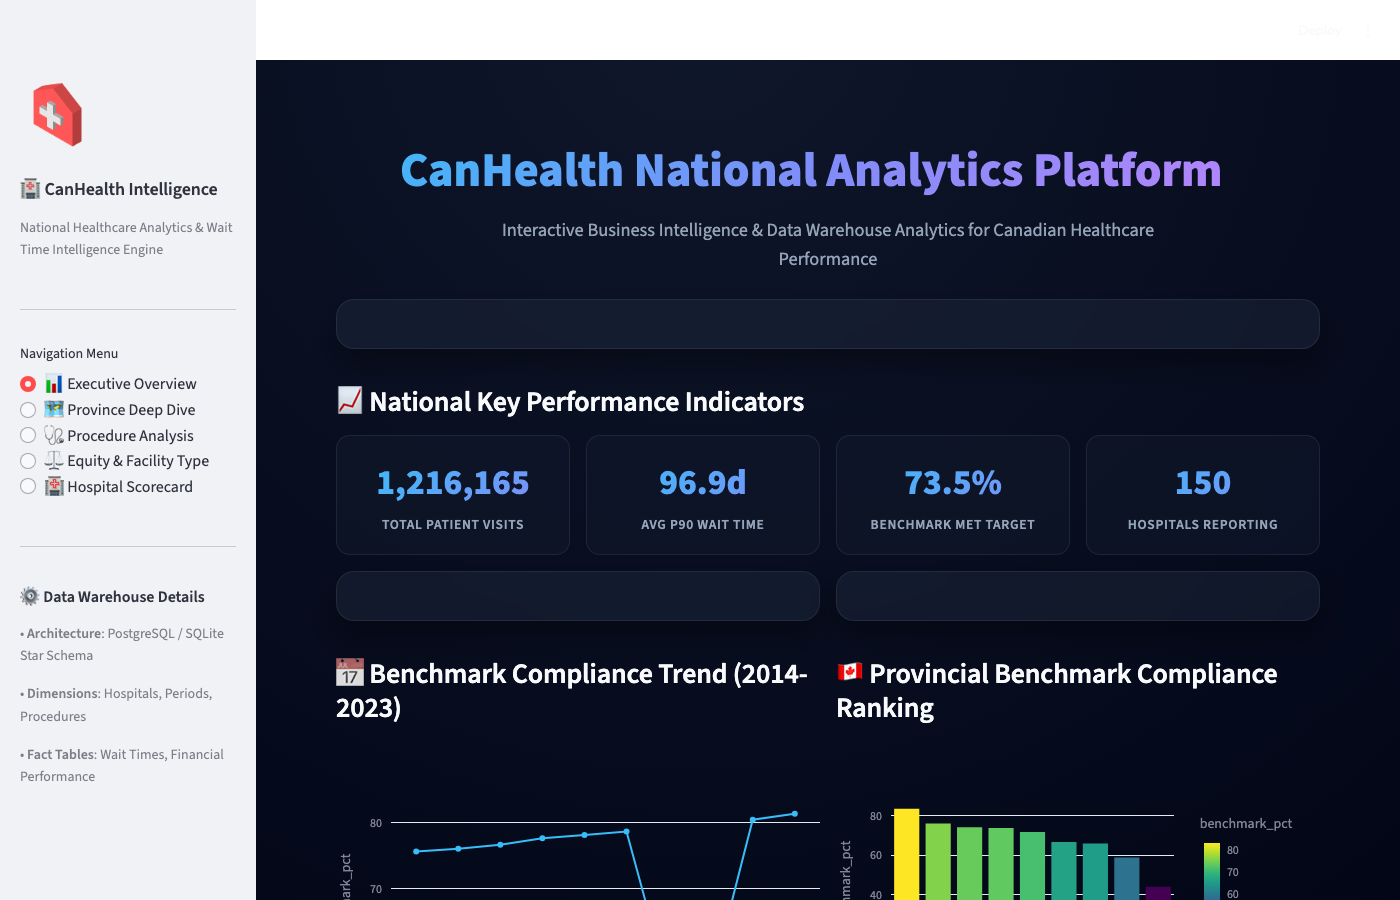
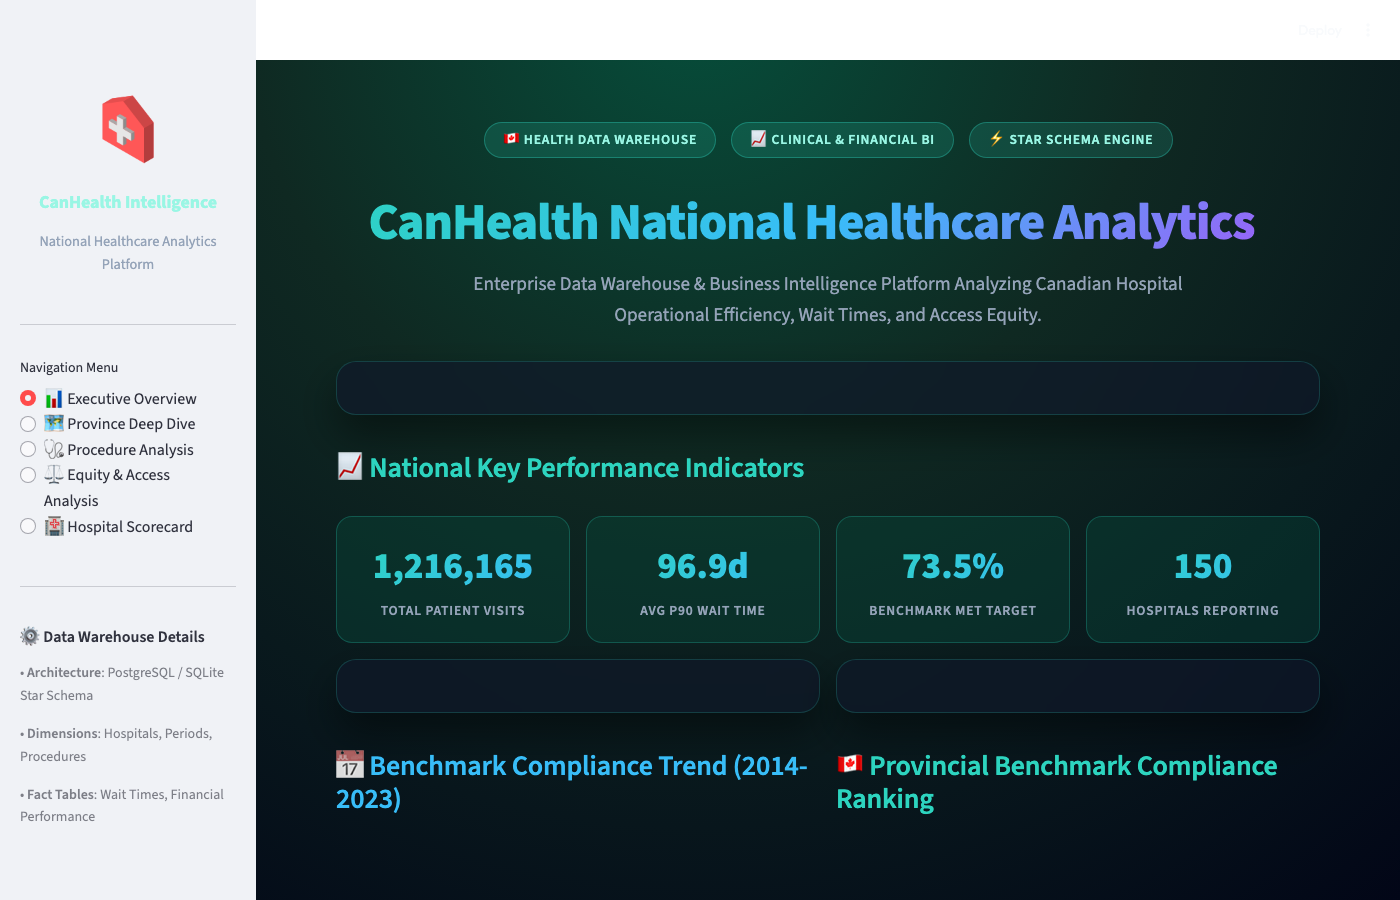
style: update CanHealth BI dashboard to distinct Emerald/Teal theme

diff --git a/dashboard/streamlit_dashboard.py b/dashboard/streamlit_dashboard.py
@@ -8,13 +8,13 @@ import plotly.graph_objects as go
 
 # --- PAGE CONFIGURATION ---
 st.set_page_config(
-    page_title="CanHealth Analytics - Healthcare Intelligence Portal",
+    page_title="CanHealth Intelligence - Healthcare Analytics",
     page_icon="🏥",
     layout="wide",
     initial_sidebar_state="expanded"
 )
 
-# --- CUSTOM CSS STYLING ---
+# --- DISTINCT EMERALD & TEAL HEALTHCARE THEME (CSS) ---
 st.markdown("""
 <style>
     @import url('https://fonts.googleapis.com/css2?family=Outfit:wght@300;400;500;600;700;800&family=Inter:wght@300;400;500;600;700&display=swap');
@@ -23,34 +23,43 @@ st.markdown("""
         font-family: 'Outfit', 'Inter', sans-serif;
     }
 
+    /* Deep Emerald & Cyan Oceanic Radial Background */
     .stApp {
-        background: radial-gradient(circle at 50% 0%, #0f172a 0%, #020617 100%);
+        background: radial-gradient(circle at 50% 0%, #064e3b 0%, #0f2922 40%, #020617 100%);
         color: #f8fafc;
     }
 
+    /* Glassmorphism Cards with Emerald Border Glow */
     .glass-card {
-        background: rgba(30, 41, 59, 0.45);
-        backdrop-filter: blur(16px);
-        -webkit-backdrop-filter: blur(16px);
-        border: 1px solid rgba(255, 255, 255, 0.08);
-        border-radius: 18px;
-        padding: 24px;
+        background: rgba(15, 23, 42, 0.65);
+        backdrop-filter: blur(20px);
+        -webkit-backdrop-filter: blur(20px);
+        border: 1px solid rgba(45, 212, 191, 0.2);
+        border-radius: 20px;
+        padding: 26px;
         margin-bottom: 24px;
-        box-shadow: 0 15px 35px rgba(0, 0, 0, 0.4);
+        box-shadow: 0 20px 40px rgba(0, 0, 0, 0.45);
+        transition: transform 0.3s ease, border-color 0.3s ease, box-shadow 0.3s ease;
     }
 
+    .glass-card:hover {
+        border-color: rgba(45, 212, 191, 0.5);
+        box-shadow: 0 25px 50px rgba(45, 212, 191, 0.15);
+    }
+
+    /* Metrics Container */
     .metric-container {
-        background: rgba(15, 23, 42, 0.6);
-        border: 1px solid rgba(255, 255, 255, 0.08);
-        border-radius: 14px;
-        padding: 18px;
+        background: rgba(6, 78, 59, 0.35);
+        border: 1px solid rgba(45, 212, 191, 0.25);
+        border-radius: 16px;
+        padding: 20px;
         text-align: center;
     }
 
     .metric-val {
-        font-size: 2.2rem;
+        font-size: 2.3rem;
         font-weight: 800;
-        background: linear-gradient(135deg, #38bdf8 0%, #818cf8 100%);
+        background: linear-gradient(135deg, #2dd4bf 0%, #38bdf8 100%);
         -webkit-background-clip: text;
         -webkit-text-fill-color: transparent;
     }
@@ -60,8 +69,23 @@ st.markdown("""
         font-size: 0.85rem;
         font-weight: 600;
         text-transform: uppercase;
-        letter-spacing: 0.05em;
+        letter-spacing: 0.06em;
         margin-top: 4px;
+    }
+
+    /* Pill Badges */
+    .badge-tag {
+        display: inline-block;
+        background: rgba(45, 212, 191, 0.15);
+        border: 1px solid rgba(45, 212, 191, 0.35);
+        color: #99f6e4;
+        padding: 6px 18px;
+        border-radius: 9999px;
+        font-size: 0.85rem;
+        font-weight: 600;
+        margin: 0 6px 14px 6px;
+        letter-spacing: 0.06em;
+        text-transform: uppercase;
     }
 </style>
 """, unsafe_allow_html=True)
@@ -76,16 +100,15 @@ def run_query(query):
     conn.close()
     return df
 
-# Initialize database if missing
 if not os.path.exists(DB_PATH):
     import setup_sqlite
     setup_sqlite.main()
 
 # --- SIDEBAR ---
 with st.sidebar:
-    st.image("https://img.icons8.com/isometric/100/hospital.png", width=75)
-    st.markdown("### 🏥 CanHealth Intelligence")
-    st.caption("National Healthcare Analytics & Wait Time Intelligence Engine")
+    st.markdown('<div style="text-align: center; padding: 12px 0;"><img src="https://img.icons8.com/isometric/120/hospital.png" width="80"></div>', unsafe_allow_html=True)
+    st.markdown('<h3 style="text-align: center; color: #99f6e4; font-weight: 700;">CanHealth Intelligence</h3>', unsafe_allow_html=True)
+    st.markdown('<p style="text-align: center; color: #94a3b8; font-size: 0.9rem;">National Healthcare Analytics Platform</p>', unsafe_allow_html=True)
     
     st.markdown("---")
     page = st.radio(
@@ -94,7 +117,7 @@ with st.sidebar:
             "📊 Executive Overview",
             "🗺 Province Deep Dive",
             "🩺 Procedure Analysis",
-            "⚖ Equity & Facility Type",
+            "⚖ Equity & Access Analysis",
             "🏥 Hospital Scorecard"
         ]
     )
@@ -107,12 +130,15 @@ with st.sidebar:
 
 # --- HEADER ---
 st.markdown("""
-<div style="text-align: center; padding: 10px 0 25px 0;">
-    <h1 style="background: linear-gradient(135deg, #38bdf8 0%, #818cf8 50%, #c084fc 100%); -webkit-background-clip: text; -webkit-text-fill-color: transparent; font-size: 3rem; font-weight: 800;">
-        CanHealth National Analytics Platform
+<div style="text-align: center; padding: 10px 0 30px 0;">
+    <span class="badge-tag">🇨🇦 Health Data Warehouse</span>
+    <span class="badge-tag">📈 Clinical & Financial BI</span>
+    <span class="badge-tag">⚡ Star Schema Engine</span>
+    <h1 style="background: linear-gradient(135deg, #2dd4bf 0%, #38bdf8 50%, #a855f7 100%); -webkit-background-clip: text; -webkit-text-fill-color: transparent; font-size: 3.2rem; font-weight: 800; letter-spacing: -0.02em;">
+        CanHealth National Healthcare Analytics
     </h1>
-    <p style="color: #94a3b8; font-size: 1.15rem; max-width: 750px; margin: 0 auto;">
-        Interactive Business Intelligence & Data Warehouse Analytics for Canadian Healthcare Performance
+    <p style="color: #94a3b8; font-size: 1.2rem; max-width: 800px; margin: 0 auto; line-height: 1.6;">
+        Enterprise Data Warehouse & Business Intelligence Platform Analyzing Canadian Hospital Operational Efficiency, Wait Times, and Access Equity.
     </p>
 </div>
 """, unsafe_allow_html=True)
@@ -120,7 +146,7 @@ st.markdown("""
 # --- PAGE 1: EXECUTIVE OVERVIEW ---
 if page == "📊 Executive Overview":
     st.markdown('<div class="glass-card">', unsafe_allow_html=True)
-    st.subheader("📈 National Key Performance Indicators")
+    st.markdown('<h3 style="color: #2dd4bf; margin-bottom: 16px;">📈 National Key Performance Indicators</h3>', unsafe_allow_html=True)
     
     kpi_query = """
     SELECT 
@@ -147,7 +173,7 @@ if page == "📊 Executive Overview":
     col1, col2 = st.columns(2)
     with col1:
         st.markdown('<div class="glass-card">', unsafe_allow_html=True)
-        st.subheader("📅 Benchmark Compliance Trend (2014-2023)")
+        st.markdown('<h3 style="color: #38bdf8; margin-bottom: 12px;">📅 Benchmark Compliance Trend (2014-2023)</h3>', unsafe_allow_html=True)
         trend_query = """
         SELECT p.fiscal_year, ROUND(AVG(w.pct_within_benchmark), 1) as benchmark_pct
         FROM fact_wait_times w
@@ -156,14 +182,14 @@ if page == "📊 Executive Overview":
         ORDER BY p.fiscal_year
         """
         df_trend = run_query(trend_query)
-        fig_trend = px.line(df_trend, x='fiscal_year', y='benchmark_pct', markers=True, color_discrete_sequence=['#38bdf8'])
-        fig_trend.update_layout(paper_bgcolor='rgba(0,0,0,0)', plot_bgcolor='rgba(0,0,0,0)', font=dict(color='#f8fafc'), height=340)
+        fig_trend = px.line(df_trend, x='fiscal_year', y='benchmark_pct', markers=True, color_discrete_sequence=['#2dd4bf'])
+        fig_trend.update_layout(paper_bgcolor='rgba(0,0,0,0)', plot_bgcolor='rgba(0,0,0,0)', font=dict(color='#f8fafc', family='Outfit'), height=340)
         st.plotly_chart(fig_trend, use_container_width=True)
         st.markdown('</div>', unsafe_allow_html=True)
         
     with col2:
         st.markdown('<div class="glass-card">', unsafe_allow_html=True)
-        st.subheader("🇨🇦 Provincial Benchmark Compliance Ranking")
+        st.markdown('<h3 style="color: #2dd4bf; margin-bottom: 12px;">🇨🇦 Provincial Benchmark Compliance Ranking</h3>', unsafe_allow_html=True)
         prov_query = """
         SELECT h.province_name as province, ROUND(AVG(w.pct_within_benchmark), 1) as benchmark_pct
         FROM fact_wait_times w
@@ -172,15 +198,15 @@ if page == "📊 Executive Overview":
         ORDER BY benchmark_pct DESC
         """
         df_prov = run_query(prov_query)
-        fig_prov = px.bar(df_prov, x='province', y='benchmark_pct', color='benchmark_pct', color_continuous_scale='viridis')
-        fig_prov.update_layout(paper_bgcolor='rgba(0,0,0,0)', plot_bgcolor='rgba(0,0,0,0)', font=dict(color='#f8fafc'), height=340)
+        fig_prov = px.bar(df_prov, x='province', y='benchmark_pct', color='benchmark_pct', color_continuous_scale='tealgrn')
+        fig_prov.update_layout(paper_bgcolor='rgba(0,0,0,0)', plot_bgcolor='rgba(0,0,0,0)', font=dict(color='#f8fafc', family='Outfit'), height=340)
         st.plotly_chart(fig_prov, use_container_width=True)
         st.markdown('</div>', unsafe_allow_html=True)
 
 # --- PAGE 2: PROVINCE DEEP DIVE ---
 elif page == "🗺 Province Deep Dive":
     st.markdown('<div class="glass-card">', unsafe_allow_html=True)
-    st.subheader("🗺 Provincial Comparative Performance")
+    st.markdown('<h3 style="color: #2dd4bf;">🗺 Provincial Comparative Performance</h3>', unsafe_allow_html=True)
     
     p_query = """
     SELECT h.province_name as province, pr.category, ROUND(AVG(w.p90_wait_days), 1) as avg_p90, ROUND(AVG(w.pct_within_benchmark), 1) as benchmark_pct, SUM(w.patient_count) as total_vol
@@ -195,15 +221,15 @@ elif page == "🗺 Province Deep Dive":
     if category_filter != "All":
         df_p = df_p[df_p['category'] == category_filter]
         
-    fig_p = px.bar(df_p, x='province', y='avg_p90', color='category', barmode='group', title="Avg 90th Percentile Wait Days by Province")
-    fig_p.update_layout(paper_bgcolor='rgba(0,0,0,0)', plot_bgcolor='rgba(0,0,0,0)', font=dict(color='#f8fafc'), height=450)
+    fig_p = px.bar(df_p, x='province', y='avg_p90', color='category', barmode='group', title="Avg 90th Percentile Wait Days by Province", color_discrete_sequence=px.colors.qualitative.Teal)
+    fig_p.update_layout(paper_bgcolor='rgba(0,0,0,0)', plot_bgcolor='rgba(0,0,0,0)', font=dict(color='#f8fafc', family='Outfit'), height=450)
     st.plotly_chart(fig_p, use_container_width=True)
     st.markdown('</div>', unsafe_allow_html=True)
 
 # --- PAGE 3: PROCEDURE ANALYSIS ---
 elif page == "🩺 Procedure Analysis":
     st.markdown('<div class="glass-card">', unsafe_allow_html=True)
-    st.subheader("🩺 Procedure Wait Time vs Benchmark Target")
+    st.markdown('<h3 style="color: #38bdf8;">🩺 Procedure Wait Time vs Benchmark Target</h3>', unsafe_allow_html=True)
     
     proc_query = """
     SELECT pr.name as procedure_name, pr.benchmark_90_days as target_days, ROUND(AVG(w.p90_wait_days), 1) as actual_p90, ROUND(AVG(w.pct_within_benchmark), 1) as benchmark_pct
@@ -215,17 +241,17 @@ elif page == "🩺 Procedure Analysis":
     df_proc = run_query(proc_query)
     
     fig_proc = go.Figure()
-    fig_proc.add_trace(go.Bar(x=df_proc['procedure_name'], y=df_proc['actual_p90'], name='Actual P90 Wait (Days)', marker_color='#818cf8'))
-    fig_proc.add_trace(go.Bar(x=df_proc['procedure_name'], y=df_proc['target_days'], name='Benchmark Target (Days)', marker_color='#34d399'))
+    fig_proc.add_trace(go.Bar(x=df_proc['procedure_name'], y=df_proc['actual_p90'], name='Actual P90 Wait (Days)', marker_color='#2dd4bf'))
+    fig_proc.add_trace(go.Bar(x=df_proc['procedure_name'], y=df_proc['target_days'], name='Benchmark Target (Days)', marker_color='#38bdf8'))
     
-    fig_proc.update_layout(barmode='group', paper_bgcolor='rgba(0,0,0,0)', plot_bgcolor='rgba(0,0,0,0)', font=dict(color='#f8fafc'), height=450)
+    fig_proc.update_layout(barmode='group', paper_bgcolor='rgba(0,0,0,0)', plot_bgcolor='rgba(0,0,0,0)', font=dict(color='#f8fafc', family='Outfit'), height=450)
     st.plotly_chart(fig_proc, use_container_width=True)
     st.markdown('</div>', unsafe_allow_html=True)
 
 # --- PAGE 4: EQUITY ANALYSIS ---
-elif page == "⚖ Equity & Facility Type":
+elif page == "⚖ Equity & Access Analysis":
     st.markdown('<div class="glass-card">', unsafe_allow_html=True)
-    st.subheader("⚖ Urban vs Rural Facility Healthcare Access Equity")
+    st.markdown('<h3 style="color: #2dd4bf;">⚖ Urban vs Rural Facility Healthcare Access Equity</h3>', unsafe_allow_html=True)
     
     eq_query = """
     SELECT h.urban_rural, pr.name as procedure_name, ROUND(AVG(w.p90_wait_days), 1) as avg_p90
@@ -236,15 +262,15 @@ elif page == "⚖ Equity & Facility Type":
     """
     df_eq = run_query(eq_query)
     
-    fig_eq = px.bar(df_eq, x='procedure_name', y='avg_p90', color='urban_rural', barmode='group', title="Urban vs Rural P90 Wait Times")
-    fig_eq.update_layout(paper_bgcolor='rgba(0,0,0,0)', plot_bgcolor='rgba(0,0,0,0)', font=dict(color='#f8fafc'), height=450)
+    fig_eq = px.bar(df_eq, x='procedure_name', y='avg_p90', color='urban_rural', barmode='group', title="Urban vs Rural P90 Wait Times", color_discrete_sequence=['#2dd4bf', '#f472b6'])
+    fig_eq.update_layout(paper_bgcolor='rgba(0,0,0,0)', plot_bgcolor='rgba(0,0,0,0)', font=dict(color='#f8fafc', family='Outfit'), height=450)
     st.plotly_chart(fig_eq, use_container_width=True)
     st.markdown('</div>', unsafe_allow_html=True)
 
 # --- PAGE 5: HOSPITAL SCORECARD ---
 elif page == "🏥 Hospital Scorecard":
     st.markdown('<div class="glass-card">', unsafe_allow_html=True)
-    st.subheader("🏥 Hospital Performance Scorecard & Financial Insights")
+    st.markdown('<h3 style="color: #38bdf8;">🏥 Hospital Performance Scorecard & Financial Insights</h3>', unsafe_allow_html=True)
     
     hosp_query = """
     SELECT h.hospital_name, h.province_name as province, h.urban_rural, h.bed_count, 
